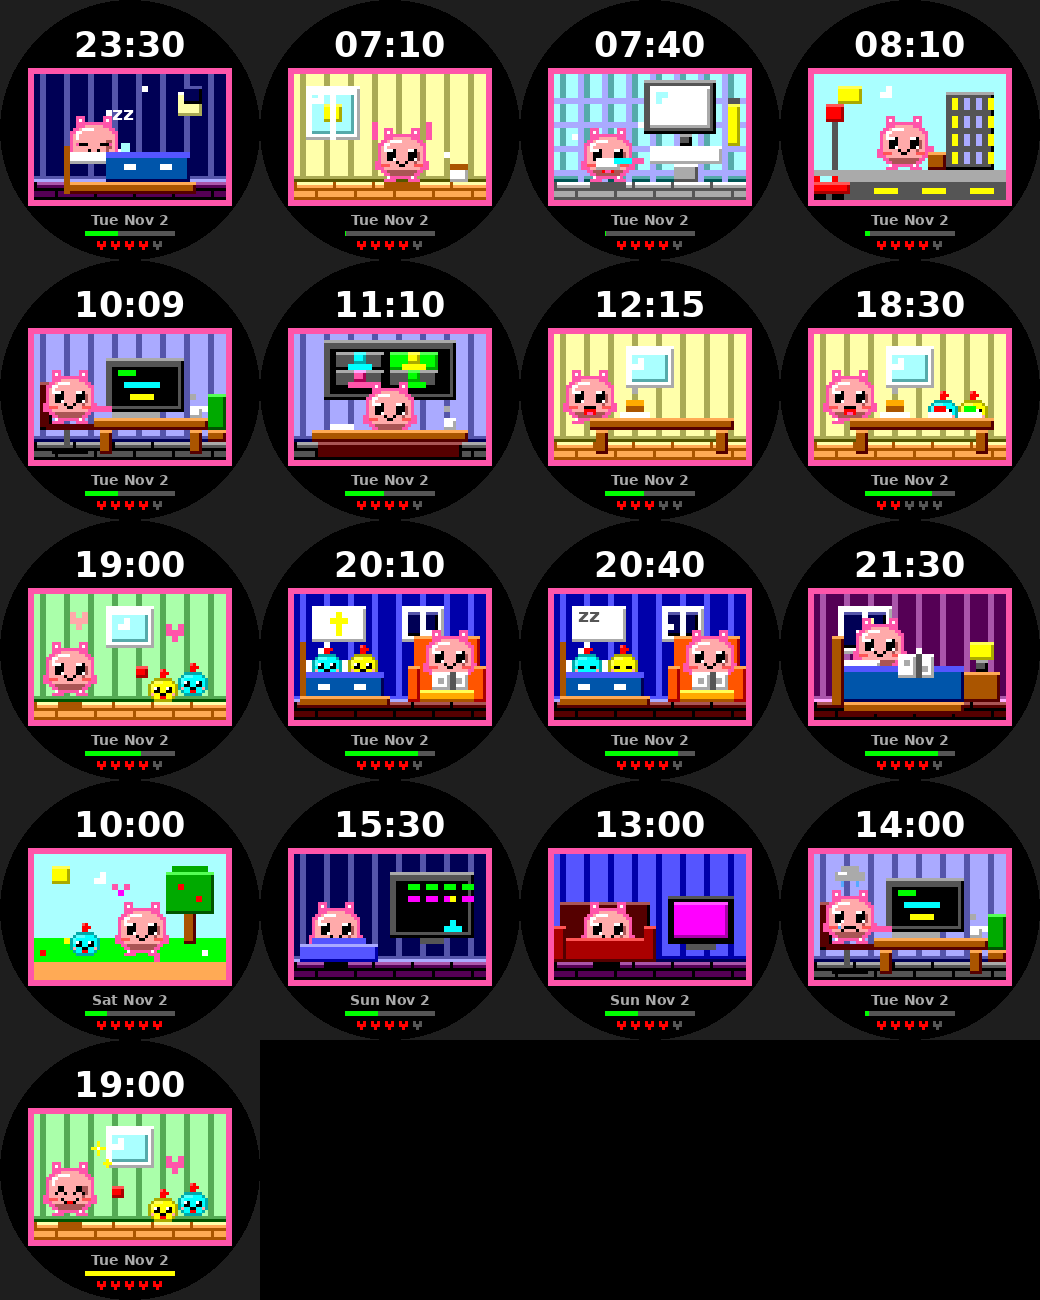
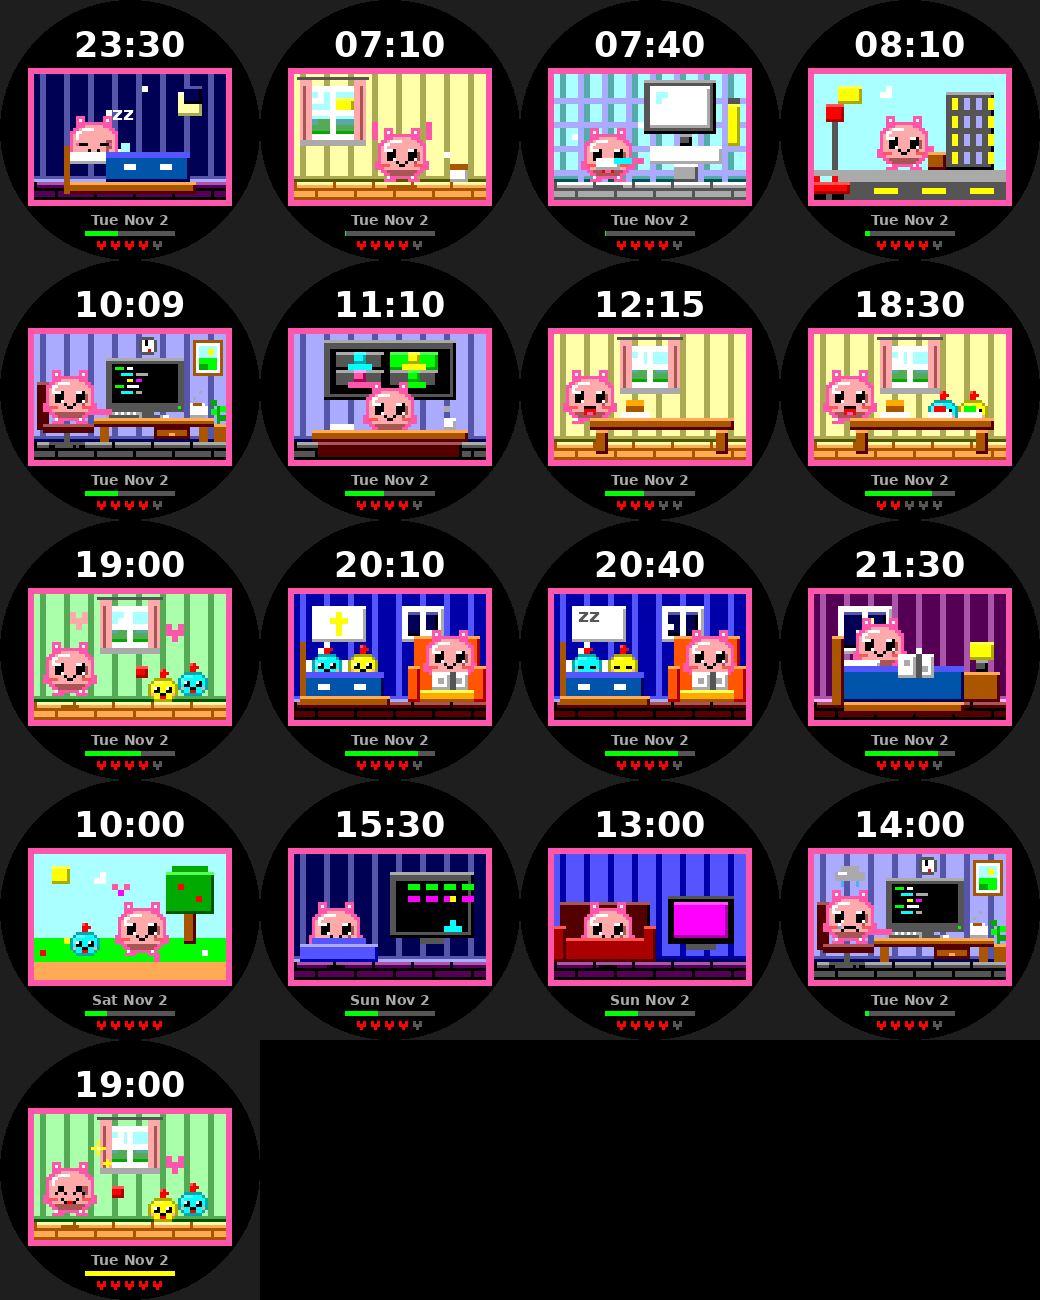
Fine-detail coding desk scene, curtained windows with hills, thinner pet shadow
Claude-Session: https://claude.ai/code/session_011ky8cAnUXaEurYwVogiPNe

diff --git a/desk-pet/src/c/main.c b/desk-pet/src/c/main.c
@@ -199,7 +199,7 @@ static void pet(int x, int y, bool blink, int mouth) {
   // soft contact shadow on the floor
   int gap = FLOOR_FINE - (Y + 16);
   if (!sl && s_floor_ok && gap >= 0 && gap <= 2) {
-    fbox(shade(s_floor_col, -1), X + 2 + gap, FLOOR_FINE, 12 - 2 * gap, 2);
+    fbox(shade(s_floor_col, -1), X + 3 + gap, FLOOR_FINE + 1, 10 - 2 * gap, 1);
   }
 
   // ears / wings / crests, drawn first so the head overlaps them
@@ -448,6 +448,30 @@ static void cloud(int x0, int y0, int w) {
   px(cx + 1, y0 - 1, GColorWhite);
 }
 
+// Daytime window, drawn in two passes so a sun/cloud can sit behind the bars:
+// window_glass() = frame + sky + hills, window_frame() = bars, sill, curtains.
+static void window_glass(int x, int y, int w, int h) {
+  int X = x * 2, Y = y * 2, W = w * 2, H = h * 2;
+  fbox(GColorWhite, X, Y, W, H);
+  fbox(GColorCeleste, X + 2, Y + 2, W - 4, H - 4);
+  fbox(shade(GColorCeleste, -1), X + 2, Y + H - 7, W - 4, 5);
+  fbox(GColorMayGreen, X + 2, Y + H - 5, W - 4, 3);                 // far hills
+  fbox(GColorMayGreen, X + 4, Y + H - 7, 6, 2);
+  fbox(GColorIslamicGreen, X + 2, Y + H - 3, W - 4, 1);
+}
+
+static void window_frame(int x, int y, int w, int h) {
+  int X = x * 2, Y = y * 2, W = w * 2, H = h * 2;
+  fbox(GColorWhite, X + W / 2 - 1, Y, 2, H);                        // bars
+  fbox(GColorWhite, X, Y + H / 2 - 1, W, 2);
+  fbox(GColorLightGray, X - 2, Y + H, W + 4, 2);                    // sill
+  fbox(GColorDarkGray, X - 3, Y - 3, W + 6, 1);                     // curtain rod
+  fbox(GColorMelon, X - 2, Y - 2, 4, H + 2);                        // curtains
+  fbox(GColorMelon, X + W - 2, Y - 2, 4, H + 2);
+  fbox(shade(GColorMelon, -1), X - 1, Y, 1, H);
+  fbox(shade(GColorMelon, -1), X + W, Y, 1, H);
+}
+
 static void room(GColor wall, GColor floor_c) {
   // wallpaper with soft vertical stripes and a baseboard
   int bright = ((wall.argb >> 4) & 3) + ((wall.argb >> 2) & 3) + (wall.argb & 3);
@@ -508,11 +532,10 @@ static void scene_sleep(void) {
 static void scene_wake(void) {
   room(GColorPastelYellow, GColorRajah);
   // window with rising sun
-  box(GColorWhite, 2, 2, 9, 9);
-  box(GColorCeleste, 3, 3, 7, 7);
-  box(GColorYellow, 5, 5, 3, 3);
-  cloud(3, 4, 7);
-  box(GColorWhite, 6, 2, 1, 9);
+  window_glass(2, 2, 9, 9);
+  box(GColorYellow, 7, 4, 3, 3);
+  cloud(3, 4, 4);
+  window_frame(2, 2, 9, 9);
   // stretching pet
   int pxx = 14, pyy = 10;
   s_bob = 1;
@@ -533,39 +556,67 @@ static void scene_wake(void) {
 
 static void scene_code(void) {
   room(GColorBabyBlueEyes, GColorDarkGray);
-  // plant
-  box(GColorIslamicGreen, 29, 10, 3, 6);
-  box(GColorWindsorTan, 29, 16, 3, 2);
-  // chair (back visible behind the pet)
-  box(GColorBulgarianRose, 1, 8, 2, 8);
-  box(GColorBulgarianRose, 2, 15, 8, 1);
-  box(GColorDarkGray, 5, 16, 1, 3);
-  box(GColorBlack, 3, 19, 6, 1);
+  const int t = (int)(s_tick & 1);
+  // wall clock that really shows the quarter hour, with a red tick
+  fbox(GColorDarkGray, 35, 2, 6, 4);  fbox(GColorDarkGray, 36, 1, 4, 6);
+  fbox(GColorWhite, 36, 2, 4, 4);
+  fbox(GColorBlack, 37, 3, 1, 1);
+  static const int mx[4] = {37, 38, 37, 36};
+  static const int my[4] = {2, 3, 4, 3};
+  int q = (s_min / 15) % 4;
+  fbox(GColorBlack, mx[q], my[q], 1, 1);
+  fbox(GColorRed, 38, 5, 1, 1);
+  // landscape poster
+  fbox(GColorWindsorTan, 53, 2, 10, 12);
+  fbox(GColorWhite, 54, 3, 8, 10);
+  fbox(GColorCeleste, 55, 4, 6, 4);
+  fbox(GColorGreen, 55, 8, 6, 4);
+  fbox(GColorYellow, 58, 5, 2, 2);
+  fbox(GColorIslamicGreen, 55, 10, 3, 2);
+  // plant with leaves
+  fbox(GColorIslamicGreen, 61, 24, 1, 6);
+  fbox(GColorGreen, 59, 25, 2, 2);  fbox(GColorGreen, 62, 24, 2, 2);
+  fbox(GColorIslamicGreen, 59, 22, 2, 2);  fbox(GColorIslamicGreen, 62, 27, 2, 2);
+  fbox(GColorWindsorTan, 60, 30, 4, 6);  fbox(shade(GColorWindsorTan, 1), 60, 30, 4, 1);
+  // chair: back, seat, stem and wheels
+  fbox(GColorBulgarianRose, 1, 16, 4, 16);  fbox(shade(GColorBulgarianRose, 1), 1, 16, 4, 1);
+  fbox(GColorBulgarianRose, 3, 30, 17, 3);  fbox(shade(GColorBulgarianRose, 1), 3, 30, 17, 1);
+  fbox(GColorDarkGray, 10, 33, 2, 3);
+  fbox(GColorDarkGray, 5, 36, 12, 1);
+  fbox(GColorBlack, 5, 37, 2, 1);  fbox(GColorBlack, 15, 37, 2, 1);
   // pet sitting at the desk
   pet(2, 7, (s_tick % 7) == 0, 0);
-  // monitor
-  box(GColorDarkGray, 17, 12, 3, 2);
-  box(GColorDarkGray, 12, 4, 13, 9);
-  box(GColorBlack, 13, 5, 11, 7);
-  static const GColor code_cols[3] = {GColorGreen, GColorCyan, GColorYellow};
-  for (int i = 0; i < 3; i++) {
-    int w = 2 + ((s_tick / 2 + i * 3) % 5);
-    int x = 14 + ((i + s_tick / 6) % 3);
-    box(code_cols[i], x, 6 + i * 2, w, 1);
+  // monitor: bezel, screen with syntax-coloured code, status LED, stand
+  fbox(GColorDarkGray, 24, 8, 26, 18);  fbox(shade(GColorDarkGray, 1), 24, 8, 26, 1);
+  fbox(GColorBlack, 26, 10, 22, 13);
+  static const GColor c1[3] = {GColorGreen, GColorCyan, GColorYellow};
+  static const GColor c2[3] = {GColorMagenta, GColorWhite, GColorLightGray};
+  for (int i = 0; i < 5; i++) {
+    int x = 27 + (int)(((unsigned)i + s_tick / 6) % 3) * 2;
+    int w1 = 2 + (int)((s_tick / 2 + (unsigned)i) % 3);
+    fbox(c1[i % 3], x, 11 + i * 2, w1, 1);
+    fbox(c2[(i + 1) % 3], x + w1 + 1, 11 + i * 2, 2 + (int)((s_tick / 3 + (unsigned)i * 2) % 4), 1);
   }
-  if (s_tick & 1) {
-    box(GColorWhite, 14, 11, 1, 1);               // blinking cursor
-  }
-  // desk, keyboard, typing hands
-  box(GColorLightGray, 13, 13, 8, 1);
-  box(PET_OUT, 10, 12 + (s_tick & 1), 3, 1);
-  box(GColorWindsorTan, 10, 14, 19, 2);
-  box(GColorWindsorTan, 11, 16, 2, 4);
-  box(GColorWindsorTan, 26, 16, 2, 4);
+  if (t) fbox(GColorWhite, 27, 21, 2, 1);                           // blinking cursor
+  fbox(GColorGreen, 48, 24, 1, 1);                                  // power LED
+  fbox(GColorDarkGray, 36, 26, 4, 1);  fbox(GColorDarkGray, 34, 27, 8, 1);
+  // keyboard, mouse and the pet's typing arms
+  fbox(GColorLightGray, 24, 26, 12, 2);
+  for (int kx = 25; kx < 35; kx += 2) fbox(GColorWhite, kx, 26, 1, 1);
+  fbox(GColorDarkGray, 25, 27, 10, 1);
+  fbox(GColorWhite, 42, 27, 3, 1);  fbox(GColorLightGray, 42, 27, 1, 1);
+  fbox(PET_OUT, 19, 25 + t, 7, 2);
+  // desk with a drawer
+  fbox(GColorWindsorTan, 20, 28, 40, 3);
+  fbox(shade(GColorWindsorTan, 1), 20, 28, 40, 1);
+  fbox(shade(GColorWindsorTan, -1), 20, 30, 40, 1);
+  fbox(GColorWindsorTan, 22, 31, 3, 5);  fbox(GColorWindsorTan, 55, 31, 3, 5);
+  fbox(shade(GColorWindsorTan, -1), 40, 31, 12, 4);
+  fbox(GColorWindsorTan, 41, 32, 10, 2);  fbox(GColorRajah, 45, 33, 2, 1);
   // coffee mug with steam
-  box(GColorWhite, 26, 12, 2, 2);
-  box(GColorWhite, 28, 12, 1, 1);
-  box(GColorLightGray, 26 + (s_tick & 1), 10, 1, 1);
+  fbox(GColorWhite, 52, 23, 5, 5);  fbox(GColorWindsorTan, 53, 23, 3, 1);
+  fbox(GColorWhite, 57, 24, 1, 3);  fbox(GColorLightGray, 52, 27, 5, 1);
+  fbox(GColorLightGray, 53 + t, 21, 1, 1);  fbox(GColorLightGray, 55 - t, 19, 1, 1);
 }
 
 
@@ -810,9 +861,9 @@ static void table_scene(bool family) {
   room(GColorPastelYellow, GColorRajah);
   int mouth = (s_tick & 1);
   // window
-  box(GColorWhite, 12, 2, 8, 7);
-  box(GColorCeleste, 13, 3, 6, 5);
-  cloud(13, 5, 5);
+  window_glass(12, 2, 8, 7);
+  cloud(13, 4, 5);
+  window_frame(12, 2, 8, 7);
   pet(2, 7, (s_tick % 7) == 0, mouth);
   if (family) {
     kid(19, 11, GColorCyan, mouth);
@@ -838,9 +889,9 @@ static void table_scene(bool family) {
 static void scene_play(void) {
   room(GColorMintGreen, GColorRajah);
   // window
-  box(GColorWhite, 12, 2, 8, 7);
-  box(GColorCeleste, 13, 3, 6, 5);
-  cloud(13, 5, 5);
+  window_glass(12, 2, 8, 7);
+  cloud(13, 4, 5);
+  window_frame(12, 2, 8, 7);
   // family
   s_bob = 1;
   pet(2, 10, (s_tick % 7) == 0, 0);
